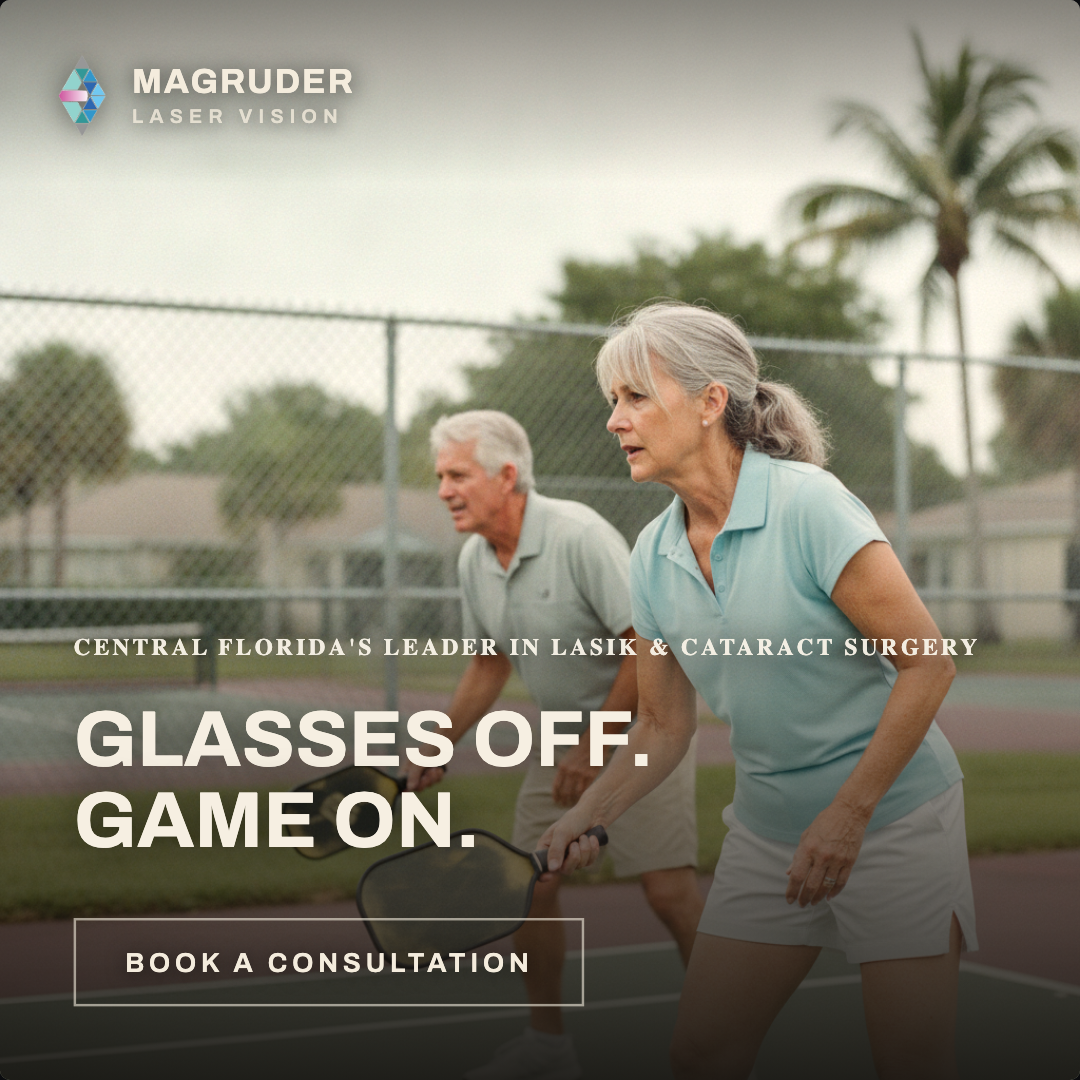
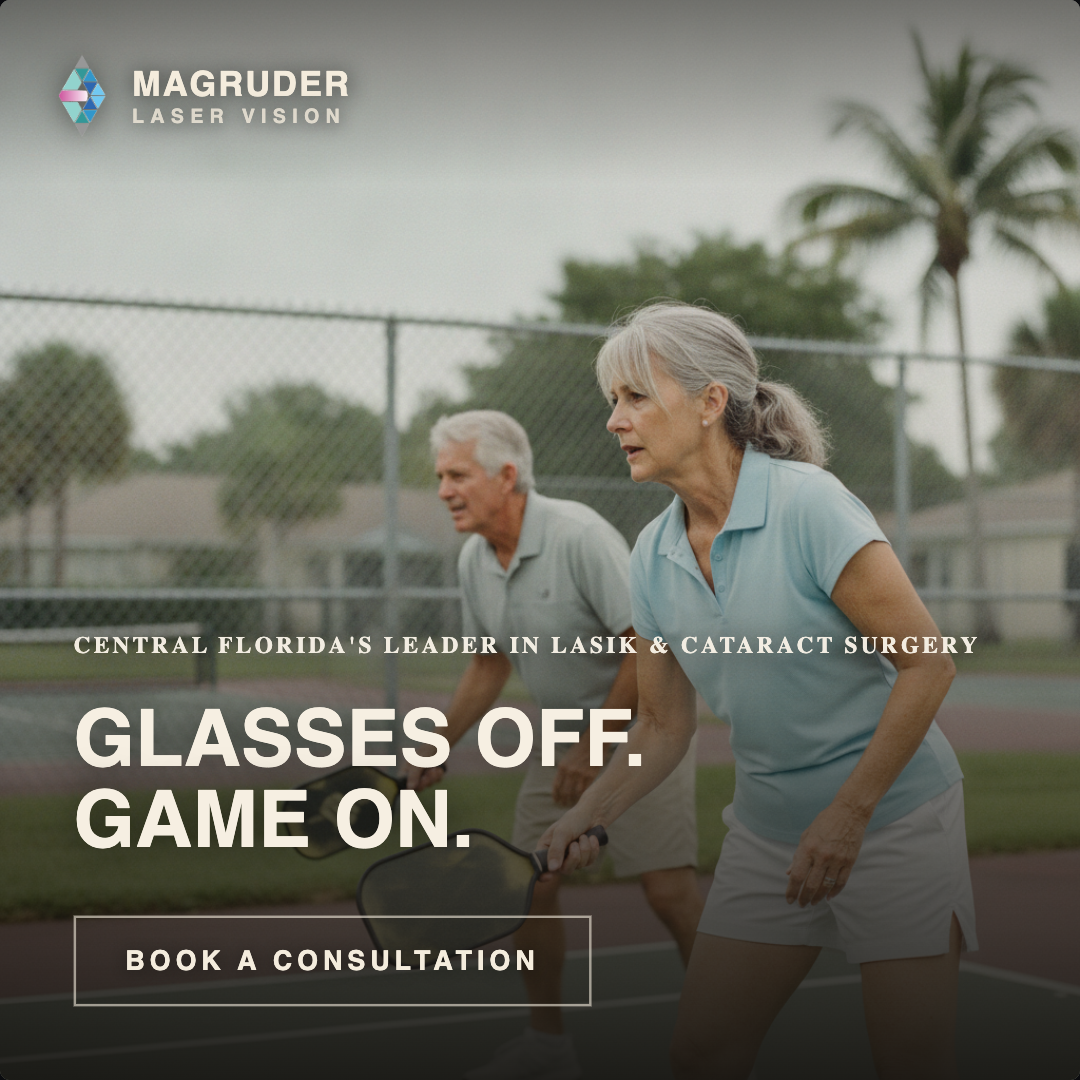
Remove yellow tint from golf, fishing, and pickleball ads — switch to neutral PNGs, strip warm filter

diff --git a/index.html b/index.html
@@ -1,5 +1,5 @@
 <!DOCTYPE html><html lang="en"><head><meta charset="utf-8"><meta name="viewport" content="width=device-width, initial-scale=1"><title>Magruder Laser Vision — Creative Territories · Campbell Learn</title><link rel="preconnect" href="https://fonts.googleapis.com"><link rel="preconnect" href="https://fonts.gstatic.com" crossorigin><link href="https://fonts.googleapis.com/css2?family=Oswald:wght@400;500;600;700&family=Roboto:ital,wght@0,400;0,500;0,700;1,400&family=Cardo:ital@0;1&family=Roboto+Mono:wght@400;500&family=Archivo:wght@500;600;700;800&family=Newsreader:ital,opsz,wght@0,6..72,300;0,6..72,400;0,6..72,500;1,6..72,300;1,6..72,400&family=Inter:wght@400;500;600&display=swap" rel="stylesheet"><style>*{box-sizing:border-box}body{margin:0;background:#fff;-webkit-font-smoothing:antialiased}a[download]:hover{background:#013042 !important}</style></head><body><section style="background:#FFFFFF;min-height:90vh;display:flex;align-items:center;border-bottom:1px solid #DED8CC;"><div style="max-width:1240px;margin:0 auto;padding:80px 24px;width:100%;"><div style="display:flex;align-items:center;gap:11px;margin-bottom:56px;"><span style="width:13px;height:13px;border-radius:50%;background:#EA3C55;"></span><span style="font-family:Oswald,sans-serif;font-weight:600;font-size:16px;letter-spacing:.18em;text-transform:uppercase;color:#024059;">Campbell Learn</span></div><div style="display:flex;align-items:center;gap:10px;margin-bottom:18px;"><span style="width:9px;height:9px;border-radius:50%;background:#EA3C55;display:inline-block;"></span><span style="font-family:Oswald,sans-serif;font-weight:600;font-size:13px;letter-spacing:.22em;text-transform:uppercase;color:#024059;">Magruder Laser Vision · Creative Territories</span></div><h1 style="font-family:Oswald,sans-serif;font-weight:600;font-size:68px;line-height:.98;color:#024059;margin:0 0 8px;max-width:900px;">One Promise.<br><span style="font-family:Cardo,Georgia,serif;font-style:italic;font-weight:400;color:#00AEEF;">Three ways to prove it.</span></h1><p style="font-family:Roboto,system-ui,sans-serif;font-size:17px;line-height:1.62;color:#03030D;max-width:680px;margin:28px 0 32px;">Every territory ladders up to the same positioning. Each one dramatizes that promise for a different mindset — the dreamer, the skeptic, and the researcher — so the campaign can meet a prospective patient wherever they are and move them forward.</p><div style="display:flex;gap:16px;max-width:680px;margin-bottom:40px;"><div style="width:3px;background:#EA3C55;flex:none;"></div><p style="font-family:Cardo,Georgia,serif;font-style:italic;font-size:23px;line-height:1.4;color:#024059;margin:0;">The most advanced technology in Central Florida. The most experienced hands to use it.</p></div><div style="background:#F7F5F2;border:1px solid #DED8CC;padding:14px 18px;display:inline-block;font-family:Roboto,system-ui,sans-serif;font-size:13px;color:#03030D;margin-bottom:40px;">Each ad is a finished 1080×1080 creative — hover any card and click <strong>Download PNG</strong> to grab it.</div><div style="display:flex;gap:48px;flex-wrap:wrap;font-family:'Roboto Mono',monospace;font-size:12px;color:#6B7684;"><div><div style="color:#024059;text-transform:uppercase;letter-spacing:.16em;font-size:10px;margin-bottom:6px;">Prepared by</div>Campbell Learn</div><div><div style="color:#024059;text-transform:uppercase;letter-spacing:.16em;font-size:10px;margin-bottom:6px;">For review by</div>Barbara Drahl</div><div><div style="color:#024059;text-transform:uppercase;letter-spacing:.16em;font-size:10px;margin-bottom:6px;">Date</div>June 2026</div></div></div></section><section style="max-width:1240px;margin:0 auto;padding:0 24px;border-top:1px solid #DED8CC;"><div style="padding:64px 0 30px;display:flex;gap:40px;align-items:flex-end;flex-wrap:wrap;"><div style="flex:1;min-width:320px;"><div style="display:flex;align-items:center;gap:10px;margin-bottom:18px;"><span style="width:9px;height:9px;border-radius:50%;background:#EA3C55;display:inline-block;"></span><span style="font-family:Oswald,sans-serif;font-weight:600;font-size:13px;letter-spacing:.22em;text-transform:uppercase;color:#024059;">Territory 01</span></div><h2 style="font-family:Oswald,sans-serif;font-weight:600;font-size:40px;line-height:1.05;color:#024059;margin:0 0 12px;">The Orlando Life</h2><div style="font-family:Cardo,Georgia,serif;font-style:italic;font-size:24px;line-height:1.35;color:#00AEEF;margin-bottom:18px;">Sell the life that vision gives back.</div><p style="font-family:Roboto,system-ui,sans-serif;font-size:15px;line-height:1.62;color:#03030D;max-width:640px;margin:0 0 18px;">Warm, human, aspirational. Each ad names one moment clear vision hands back — the putt read, the open water, the grandkids, the game, the quiet morning. No clinical language; the surgery is the means, the moment is the message.</p><div style="display:flex;gap:14px;max-width:560px;"><div style="width:3px;background:#EA3C55;flex:none;"></div><div><div style="font-family:'Roboto Mono',monospace;font-size:11px;letter-spacing:.16em;text-transform:uppercase;color:#6B7684;margin-bottom:4px;">The why</div><div style="font-family:Cardo,Georgia,serif;font-style:italic;font-size:18px;line-height:1.4;color:#024059;">Speaks to the heart — the reason behind the procedure, before any proof.</div></div></div></div><div style="font-family:'Roboto Mono',monospace;font-size:11px;letter-spacing:.14em;text-transform:uppercase;color:#6B7684;padding-bottom:6px;">Five lifestyle ads · warm · 1:1 feed</div></div><div style="padding-bottom:76px;"><div style="display:flex;flex-wrap:wrap;gap:30px 18px;align-content:flex-start;"><div style="flex:none;width:360px;"><div style="position:relative;width:360px;height:360px;border-radius:4px;overflow:hidden;box-shadow:0 12px 30px rgba(0,0,0,0.45);"><div style="position:absolute;top:0;left:0;width:440px;height:440px;transform:scale(0.8181818181818182);transform-origin:top left;"><div style="position: relative; width: 440px; height: 440px; border-radius: 4px; overflow: hidden; background: #14130f;">
-              <img src="assets/golf-putt.jpg" alt="" style="position: absolute; inset: 0; width: 100%; height: 100%; object-fit: cover; object-position: 50% 38%;">
+              <img src="assets/golf-putt.png" alt="" style="position: absolute; inset: 0; width: 100%; height: 100%; object-fit: cover; object-position: 50% 38%;">
               <div style="position: absolute; inset: 0; background: linear-gradient(to top, rgba(20,19,16,0.92) 0%, rgba(20,19,16,0.5) 26%, rgba(20,19,16,0.06) 48%, rgba(20,19,16,0) 62%), linear-gradient(to bottom, rgba(20,19,16,0.5) 0%, rgba(20,19,16,0) 17%);"></div>
               <div style="position: absolute; top: 22px; left: 24px; display: flex; align-items: center; gap: 10px;">
                 <img src="assets/magruder-diamond.png" alt="" style="height: 34px; width: auto; display: block; filter: drop-shadow(0 1px 6px rgba(8,9,7,0.6));">
@@ -83,7 +83,7 @@
             </div>
           </div>
         </div><a href="assets/downloads/Magruder-A-Quiet-Morning.png" download style="display:inline-block;margin-top:12px;background:#024059;color:#fff;font-family:Oswald,sans-serif;font-weight:600;font-size:11px;letter-spacing:.16em;text-transform:uppercase;padding:11px 18px;border-radius:50px;text-decoration:none;">Download PNG &nbsp;·&nbsp; 1080</a></div><div style="flex:none;width:360px;"><div style="position:relative;width:360px;height:360px;border-radius:4px;overflow:hidden;box-shadow:0 12px 30px rgba(0,0,0,0.45);"><div style="position:absolute;top:0;left:0;width:440px;height:440px;transform:scale(0.8181818181818182);transform-origin:top left;"><div style="position: relative; width: 440px; height: 440px; border-radius: 4px; overflow: hidden; background: #14130f;">
-              <img src="assets/beach-fishing.jpg" alt="" style="position: absolute; inset: 0; width: 100%; height: 100%; object-fit: cover; object-position: 50% 40%;">
+              <img src="assets/beach-fishing.png" alt="" style="position: absolute; inset: 0; width: 100%; height: 100%; object-fit: cover; object-position: 50% 40%;">
               <div style="position: absolute; inset: 0; background: linear-gradient(to top, rgba(20,19,16,0.92) 0%, rgba(20,19,16,0.5) 26%, rgba(20,19,16,0.06) 48%, rgba(20,19,16,0) 62%), linear-gradient(to bottom, rgba(20,19,16,0.5) 0%, rgba(20,19,16,0) 17%);"></div>
               <div style="position: absolute; top: 22px; left: 24px; display: flex; align-items: center; gap: 10px;">
                 <img src="assets/magruder-diamond.png" alt="" style="height: 34px; width: auto; display: block; filter: drop-shadow(0 1px 6px rgba(8,9,7,0.6));">
@@ -111,7 +111,7 @@
             </div>
           </div>
         </div><a href="assets/downloads/Magruder-Dawn-on-the-Coast.png" download style="display:inline-block;margin-top:12px;background:#024059;color:#fff;font-family:Oswald,sans-serif;font-weight:600;font-size:11px;letter-spacing:.16em;text-transform:uppercase;padding:11px 18px;border-radius:50px;text-decoration:none;">Download PNG &nbsp;·&nbsp; 1080</a></div><div style="flex:none;width:360px;"><div style="position:relative;width:360px;height:360px;border-radius:4px;overflow:hidden;box-shadow:0 12px 30px rgba(0,0,0,0.45);"><div style="position:absolute;top:0;left:0;width:440px;height:440px;transform:scale(0.8181818181818182);transform-origin:top left;"><div style="position: relative; width: 440px; height: 440px; border-radius: 4px; overflow: hidden; background: #14130f;">
-              <img src="assets/pickleball.jpg" alt="" style="position: absolute; inset: 0; width: 100%; height: 100%; object-fit: cover; object-position: 50% 40%; filter: brightness(1.16) contrast(1.03) saturate(1.18) sepia(0.1) hue-rotate(-6deg);">
+              <img src="assets/pickleball.png" alt="" style="position: absolute; inset: 0; width: 100%; height: 100%; object-fit: cover; object-position: 50% 40%;">
               <div style="position: absolute; inset: 0; background: linear-gradient(to top, rgba(20,19,16,0.92) 0%, rgba(20,19,16,0.5) 26%, rgba(20,19,16,0.06) 48%, rgba(20,19,16,0) 62%), linear-gradient(to bottom, rgba(20,19,16,0.5) 0%, rgba(20,19,16,0) 17%);"></div>
               <div style="position: absolute; top: 22px; left: 24px; display: flex; align-items: center; gap: 10px;">
                 <img src="assets/magruder-diamond.png" alt="" style="height: 34px; width: auto; display: block; filter: drop-shadow(0 1px 6px rgba(8,9,7,0.6));">